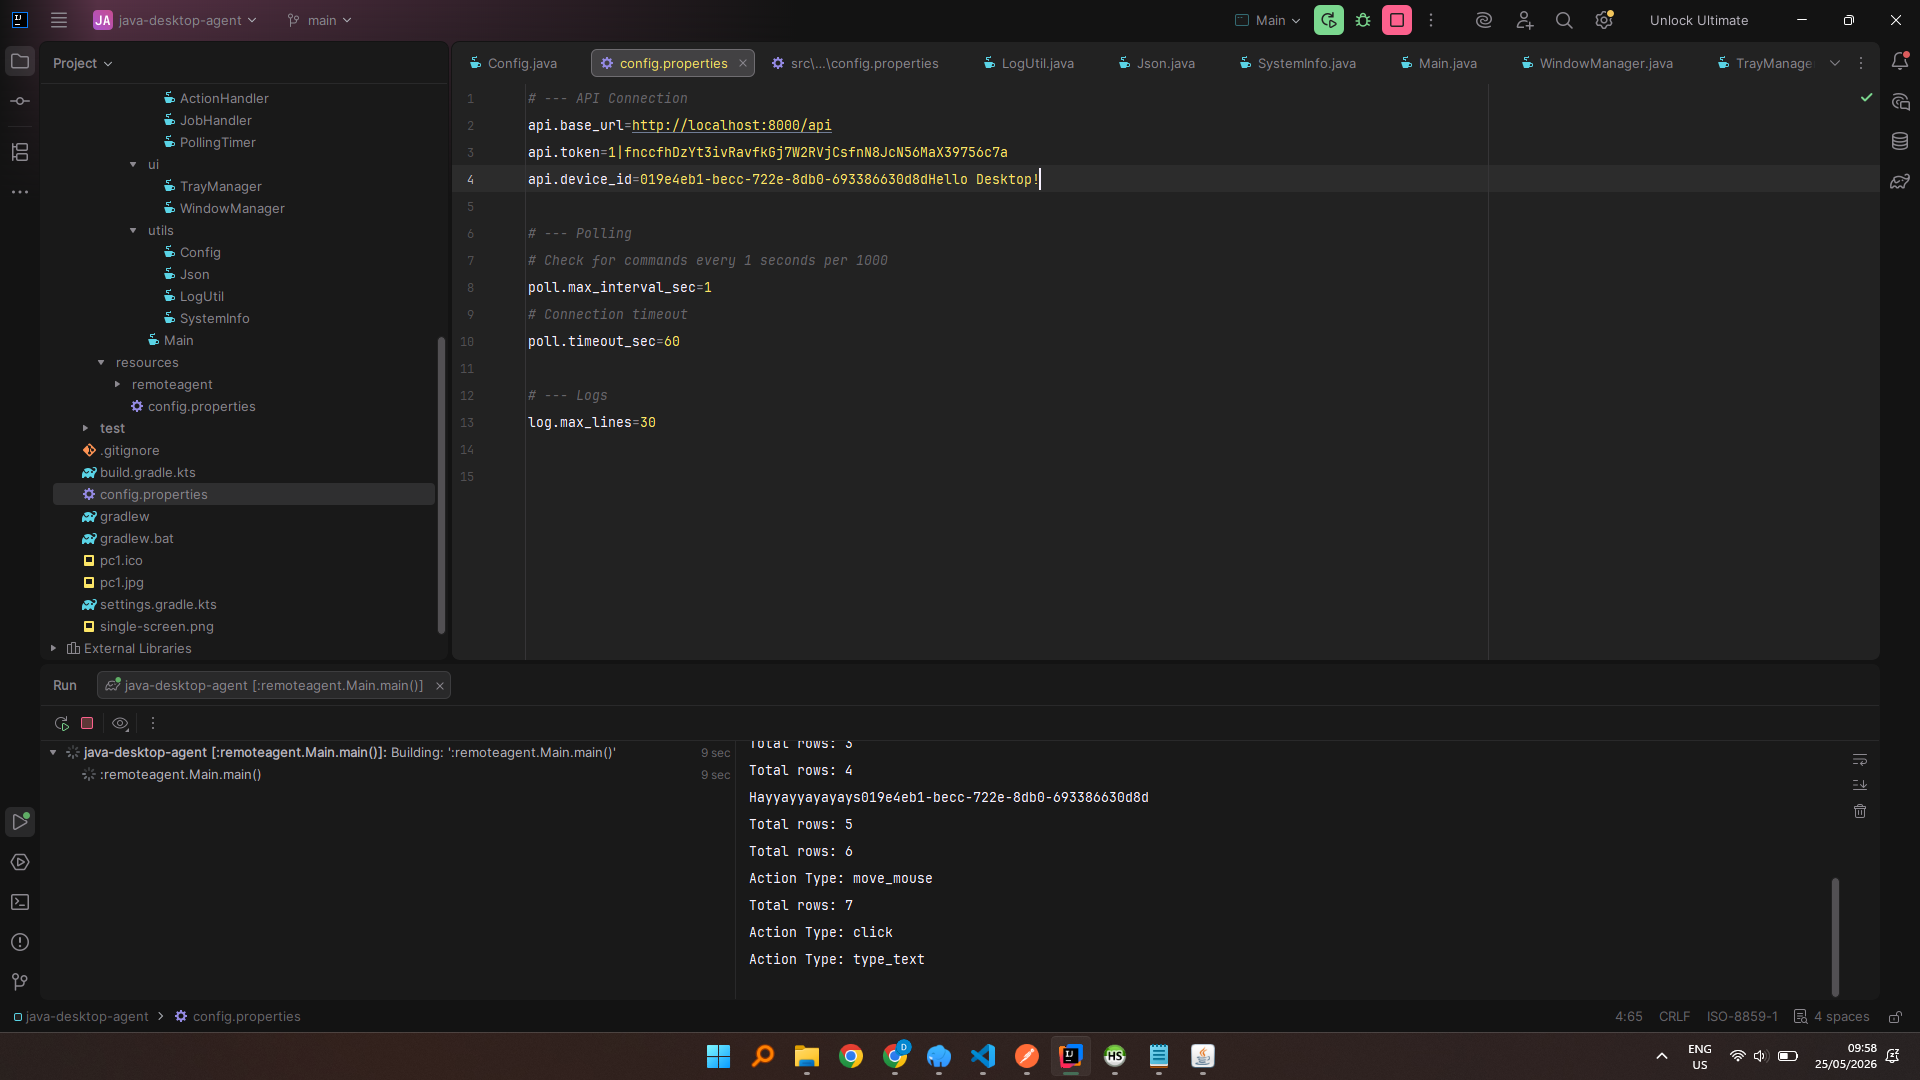
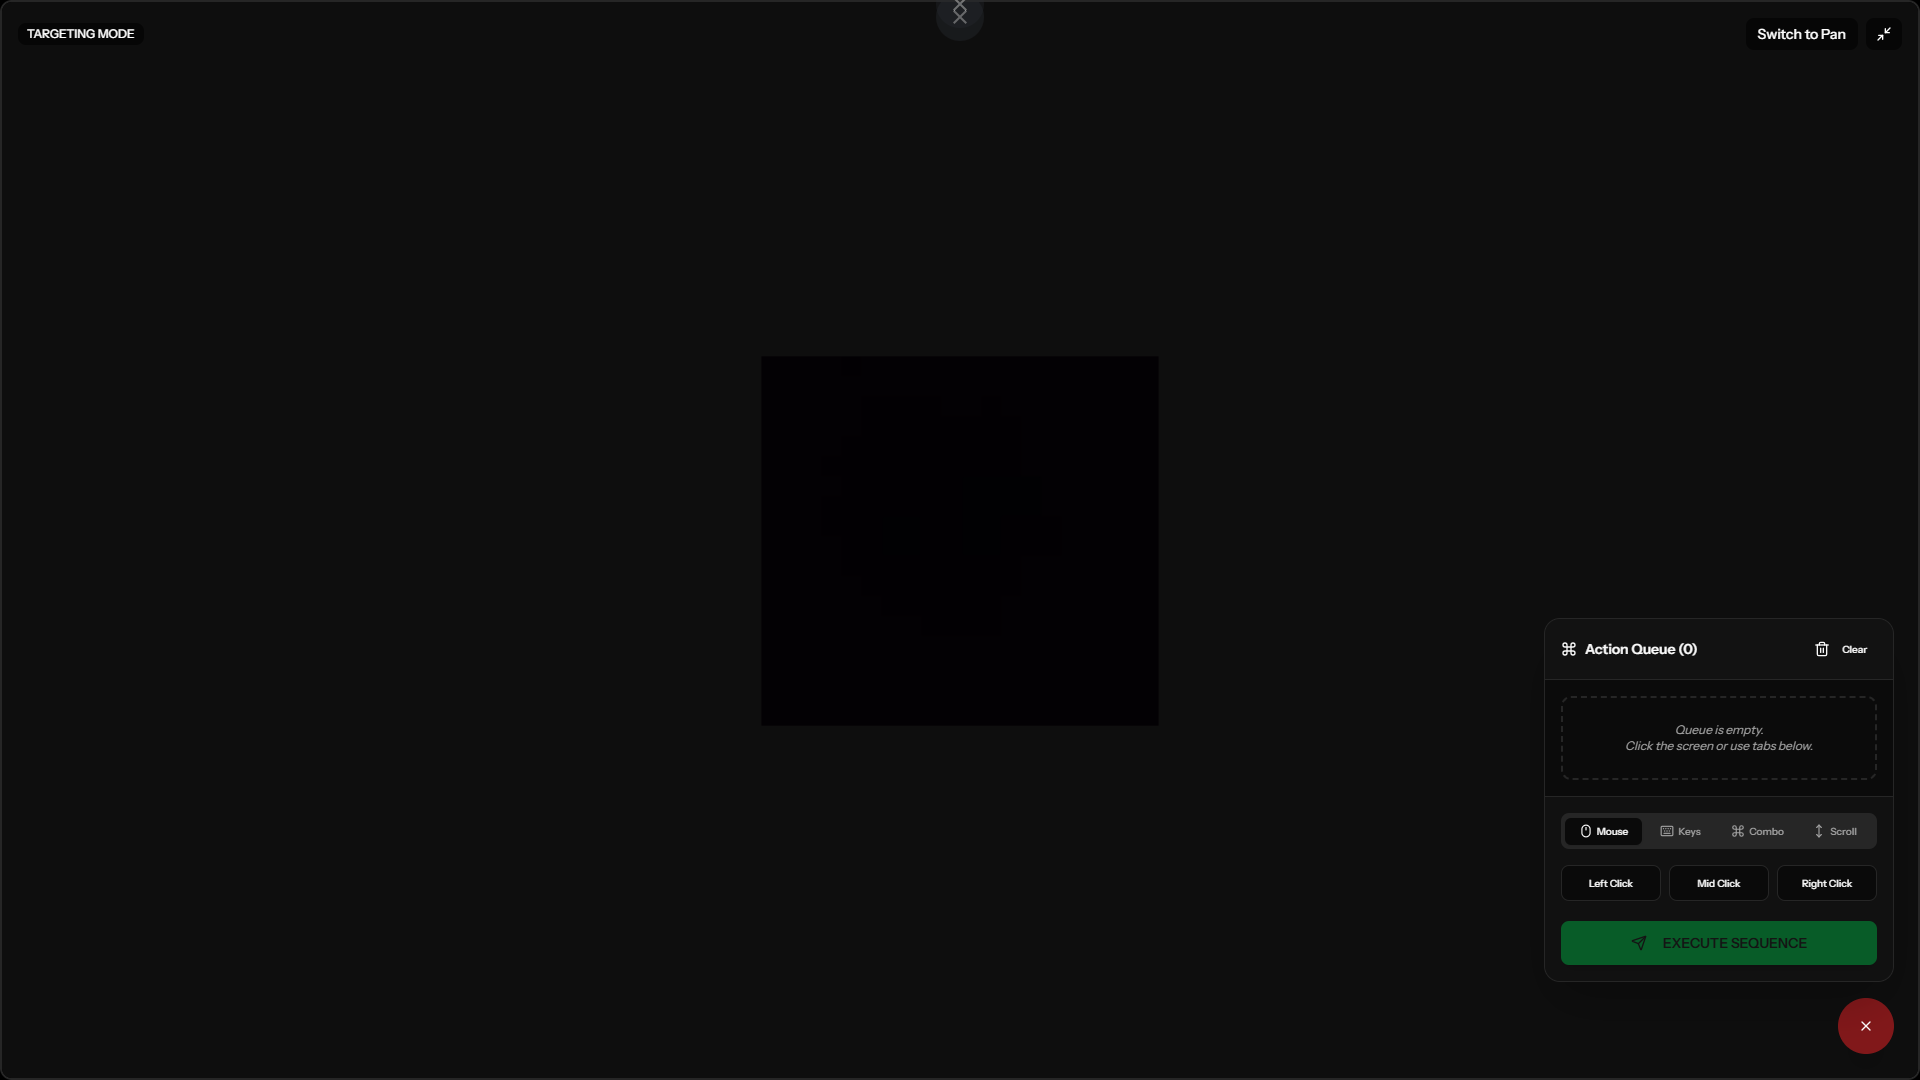
perf & ui(laravel-server): implement sequential polling and image preloading
- Resolved request stacking by replacing setInterval with a recursive async/await polling loop.

- Added 'Double Buffering' (image preloading) to eliminate flickering when screenshots update.

- Bypassed browser caching on status requests using timestamped cache-busters.

diff --git a/laravel-server/resources/js/pages/commands/controller.tsx b/laravel-server/resources/js/pages/commands/controller.tsx
@@ -28,47 +28,80 @@ interface Props {
 }
 
 export default function Controller({ command }: Props) {
-    // Hold the live data separately from Inertia's page props
     const [liveCommand, setLiveCommand] = useState(command);
     const [timestamp, setTimestamp] = useState(Date.now());
     const [pollIntervalMs, setPollIntervalMs] = useState(1000);
+    
     const lastActiveTime = useRef(Date.now());
+    const lastUpdateRef = useRef(command.updated_at);
 
-    // FAST POLLING LOGIC
+    // SEQUENTIAL ASYNC POLLING LOGIC
     useEffect(() => {
-        const timerId = setInterval(() => {
-            const inactiveDurationMs = Date.now() - lastActiveTime.current;
-            if (inactiveDurationMs >= 60000) {
-                setPollIntervalMs(prev => Math.min(prev + 2000, 10000)); // slow down if idle
-            } else {
-                setPollIntervalMs(1000); // fast polling when active
-            }
-            
-            // Hit the lightweight JSON endpoint instead of reloading the whole page
-            axios.get(`/commands/${command.uuid}/status`)
-                .then(res => {
-                    const data = res.data;
-                    // Only update and trigger a re-render/image download if data actually changed
-                    if (data.updated_at !== liveCommand.updated_at) {
-                        setLiveCommand(prev => ({ ...prev, ...data }));
-                        setTimestamp(Date.now());
-                    }
-                })
-                .catch(err => {
-                    if(err.response?.status === 429) console.warn("Polling rate limited!");
-                });
+        let isMounted = true;
+        let timeoutId: ReturnType<typeof setTimeout>;
+        let currentInterval = 1000; // Local tracker to prevent closure staleness
 
-        }, pollIntervalMs);
-        
-        return () => clearInterval(timerId);
-    }, [pollIntervalMs, command.uuid, liveCommand.updated_at]);
+        const poll = async () => {
+            if (!isMounted) return;
+
+            try {
+                const res = await axios.get(`/commands/${command.uuid}/status?_t=${Date.now()}`);
+                const data = res.data;
+                
+                if (data.updated_at !== lastUpdateRef.current) {
+                    const nextTimestamp = Date.now();
+                    
+                    // Construct the URL of the new image
+                    const path = data.screenshot_path.startsWith('screenshots/') 
+                        ? data.screenshot_path 
+                        : `screenshots/${data.screenshot_path}`;
+                    const nextUrl = `/storage/${path}?t=${nextTimestamp}`;
+
+                    // --- PRELOADER FEATURE ---
+                    // Create a "virtual" image in memory to download the file before showing it
+                    const img = new Image();
+                    img.onload = () => {
+                        // This block only runs once the browser has the full image ready
+                        if (!isMounted) return;
+                        lastUpdateRef.current = data.updated_at;
+                        setLiveCommand(prev => ({ ...prev, ...data }));
+                        setTimestamp(nextTimestamp); // This now triggers an instant swap with no flash
+                    };
+                    img.onerror = () => {
+                        // If the image failed to load, we still update the timestamp so we don't get stuck
+                        lastUpdateRef.current = data.updated_at;
+                        setLiveCommand(prev => ({ ...prev, ...data }));
+                    };
+                    img.src = nextUrl; // This starts the background download
+                }
+            } catch (err: any) {
+                if (err.response?.status === 429) console.warn("Polling rate limited!");
+            } finally {
+                // Same finally block as before...
+                if (isMounted) {
+                    const inactiveDurationMs = Date.now() - lastActiveTime.current;
+                    currentInterval = inactiveDurationMs >= 60000 ? Math.min(currentInterval + 2000, 10000) : 1000;
+                    setPollIntervalMs(currentInterval);
+                    timeoutId = setTimeout(poll, currentInterval);
+                }
+            }
+        };
+        // Start the first request immediately
+        poll();
+
+        return () => {
+            isMounted = false;
+            clearTimeout(timeoutId);
+        };
+    // CRITICAL: We only want this effect to run once per command. 
+    // Do NOT put pollIntervalMs in this array.
+    }, [command.uuid]); 
 
     const resetPollingTimer = () => {
         lastActiveTime.current = Date.now();
         setPollIntervalMs(1000);
     };
 
-    // Use liveCommand here, not the initial command prop
     const getImageUrl = () => {
         if (!liveCommand.screenshot_path) return null;
         

diff --git a/laravel-server/resources/js/pages/client/index.tsx b/laravel-server/resources/js/pages/client/index.tsx
@@ -39,41 +39,72 @@ export default function Index({ activeCommand, errors }: Props) {
     const [liveCommand, setLiveCommand] = useState<Command | undefined>(activeCommand);
     const [timestamp, setTimestamp] = useState(Date.now());
     const [pollIntervalMs, setPollIntervalMs] = useState(1000);
+    
     const lastActiveTime = useRef(Date.now());
+    const lastUpdateRef = useRef(activeCommand?.updated_at);
 
     // Update liveCommand if Inertia provides a new activeCommand (e.g., successful login)
     useEffect(() => {
         setLiveCommand(activeCommand);
+        if (activeCommand) lastUpdateRef.current = activeCommand.updated_at;
     }, [activeCommand]);
 
-    // FAST POLLING LOGIC
+    // SEQUENTIAL ASYNC POLLING LOGIC
     useEffect(() => {
-        if (!liveCommand) return; // Only poll if we have an active session
+        if (!liveCommand) return; 
 
-        const timerId = setInterval(() => {
-            const inactiveDurationMs = Date.now() - lastActiveTime.current;
-            if (inactiveDurationMs >= 60000) {
-                setPollIntervalMs(prev => Math.min(prev + 2000, 10000));
-            } else {
-                setPollIntervalMs(1000);
-            }
+        let isMounted = true;
+        let timeoutId: ReturnType<typeof setTimeout>;
+        let currentInterval = 1000;
 
-            // Hit the lightweight JSON endpoint instead of reloading the whole page
-            axios.get(`/client/commands/${liveCommand.uuid}/status`)
-                .then(res => {
-                    const statusData = res.data;
-                    if (statusData.updated_at !== liveCommand.updated_at) {
+    const poll = async () => {
+            if (!isMounted) return;
+
+            try {
+                const res = await axios.get(`/client/commands/${liveCommand.uuid}/status?_t=${Date.now()}`);
+                const statusData = res.data;
+                
+                if (statusData.updated_at !== lastUpdateRef.current) {
+                    const nextTimestamp = Date.now();
+                    const path = statusData.screenshot_path.startsWith('screenshots/') 
+                        ? statusData.screenshot_path 
+                        : `screenshots/${statusData.screenshot_path}`;
+                    const nextUrl = `/storage/${path}?t=${nextTimestamp}`;
+
+                    // --- PRELOADER FEATURE ---
+                    const img = new Image();
+                    img.onload = () => {
+                        if (!isMounted) return;
+                        lastUpdateRef.current = statusData.updated_at;
                         setLiveCommand(prev => prev ? { ...prev, ...statusData } : prev);
-                        setTimestamp(Date.now());
-                    }
-                })
-                .catch(err => {
-                     if(err.response?.status === 429) console.warn("Polling rate limited!");
-                });
-        }, pollIntervalMs);
+                        setTimestamp(nextTimestamp);
+                    };
+                    img.onerror = () => {
+                        lastUpdateRef.current = statusData.updated_at;
+                        setLiveCommand(prev => prev ? { ...prev, ...statusData } : prev);
+                    };
+                    img.src = nextUrl;
+                }
+            } catch (err: any) {
+                 if(err.response?.status === 429) console.warn("Polling rate limited!");
+            } finally {
+                if (isMounted) {
+                    const inactiveDurationMs = Date.now() - lastActiveTime.current;
+                    currentInterval = inactiveDurationMs >= 60000 ? Math.min(currentInterval + 2000, 10000) : 1000;
+                    setPollIntervalMs(currentInterval);
+                    timeoutId = setTimeout(poll, currentInterval);
+                }
+            }
+        };
 
-        return () => clearInterval(timerId);
-    }, [pollIntervalMs, liveCommand?.uuid, liveCommand?.updated_at]);
+        poll();
+
+        return () => {
+            isMounted = false;
+            clearTimeout(timeoutId);
+        };
+    // CRITICAL: Do NOT put pollIntervalMs or liveCommand object here.
+    }, [liveCommand?.uuid]); 
 
     const resetPollingTimer = () => {
         lastActiveTime.current = Date.now();

diff --git a/laravel-server/resources/js/pages/welcome.tsx b/laravel-server/resources/js/pages/welcome.tsx
@@ -6,8 +6,7 @@ export default function Welcome({
 }: {
     canRegister?: boolean;
 }) {
-    const { auth } = usePage().props;
-
+const { auth } = usePage<{ auth: { user: any } }>().props;
     return (
         <>
             <Head title="Welcome" />
